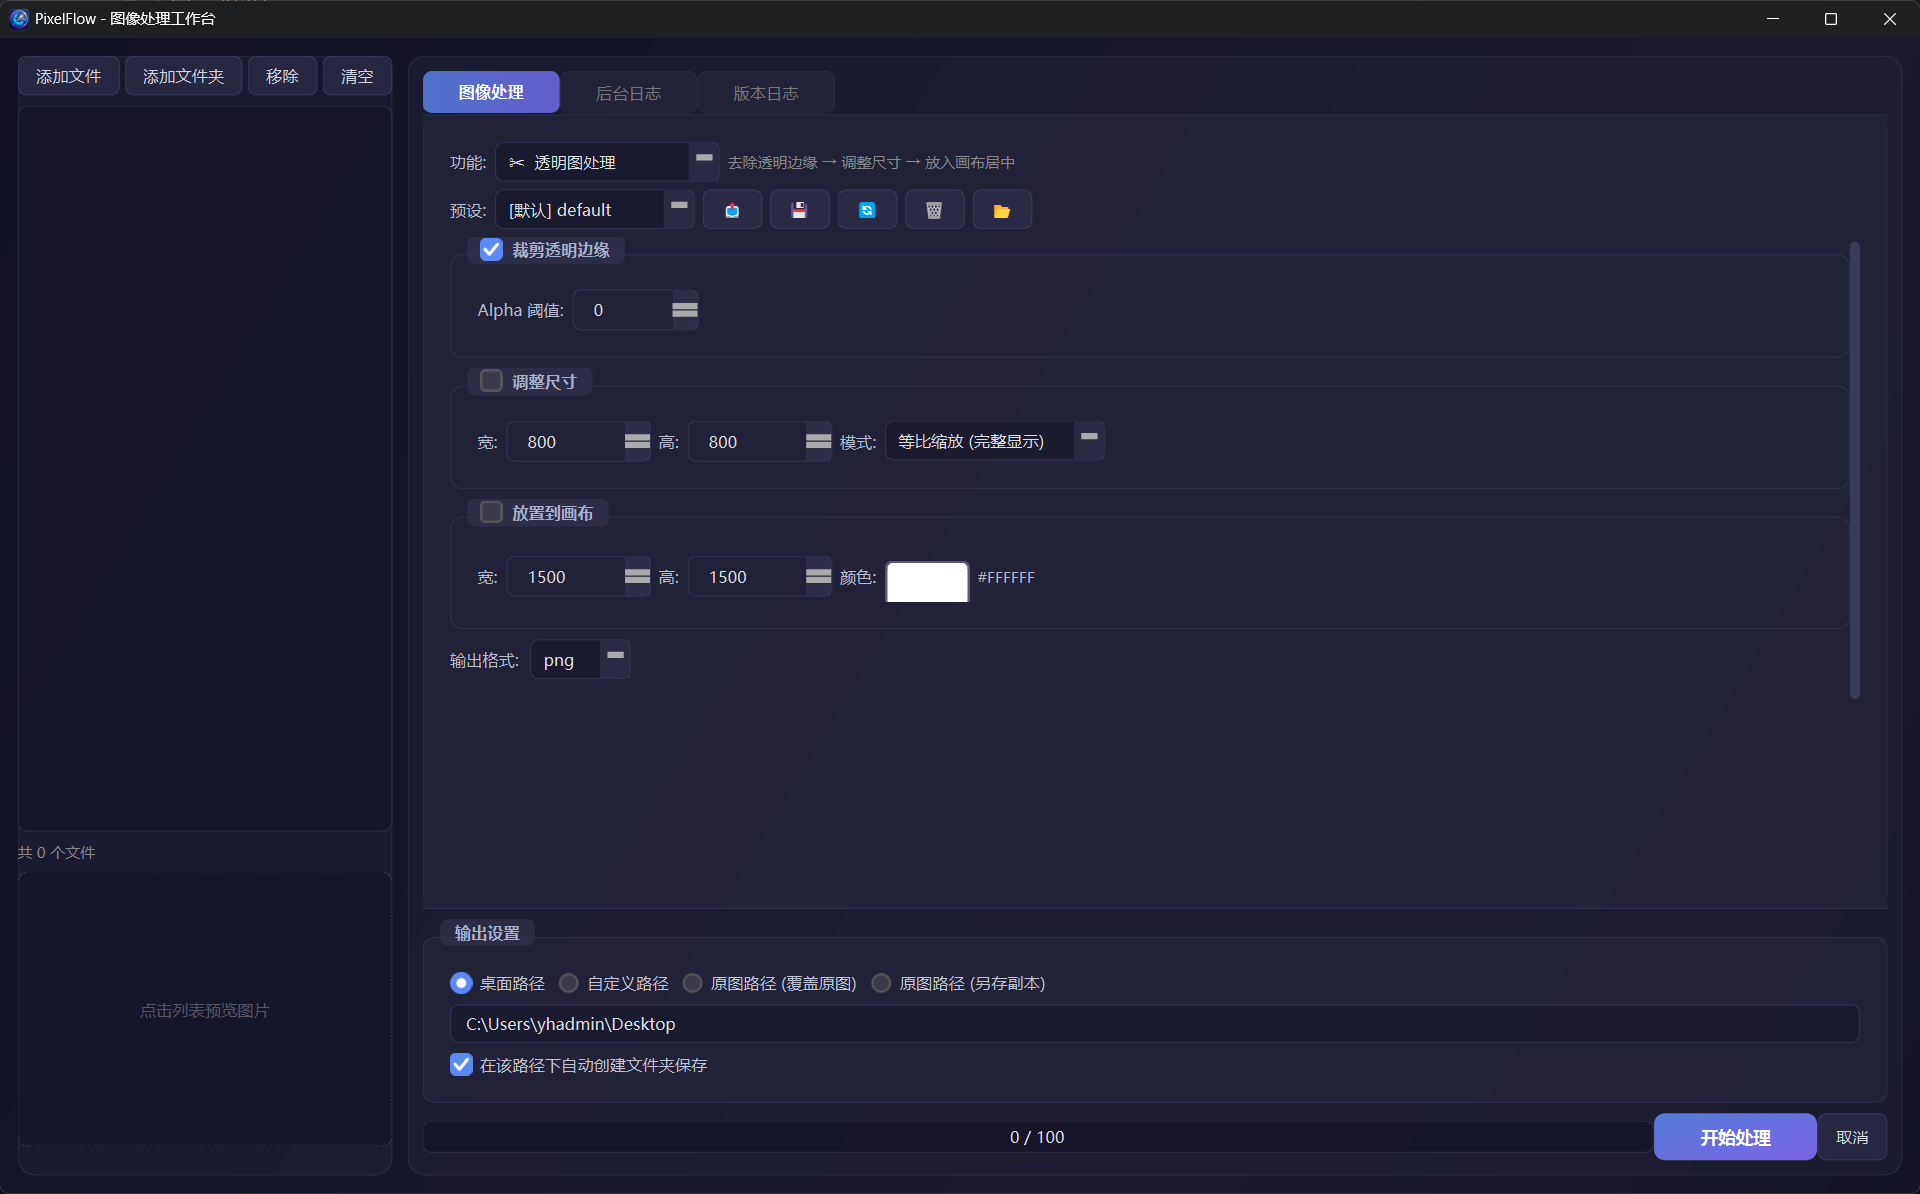
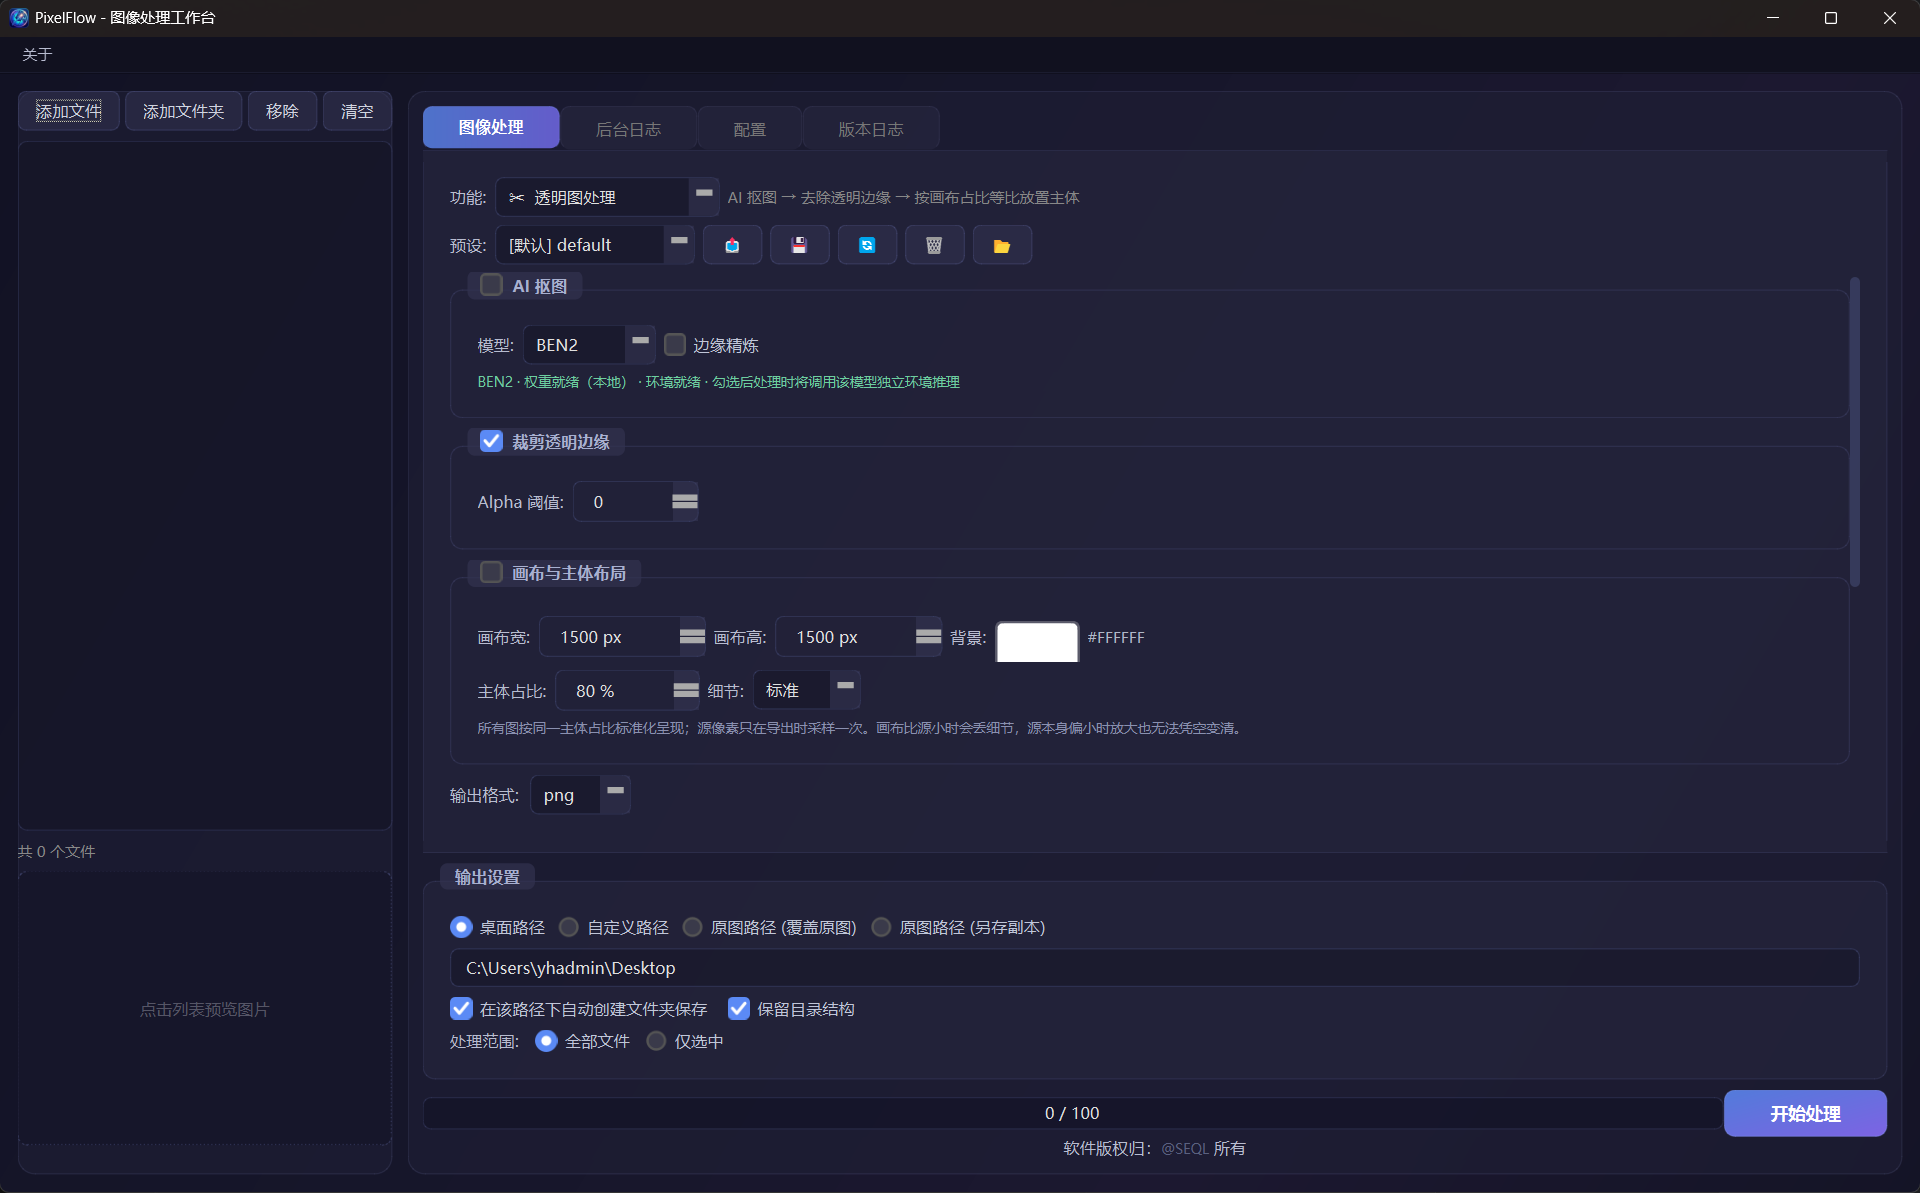
更新1.0.9版本

diff --git a/config.py b/config.py
@@ -8,7 +8,7 @@ from pathlib import Path
 # ─── 应用基本信息 ───
 APP_NAME = "PixelFlow"
 APP_TITLE = "PixelFlow - 图像处理工作台"
-APP_VERSION = "1.0.8"
+APP_VERSION = "1.0.9"
 APP_DESCRIPTION = "图像处理工作台"
 APP_PUBLISHER = "PixelFlow"
 
